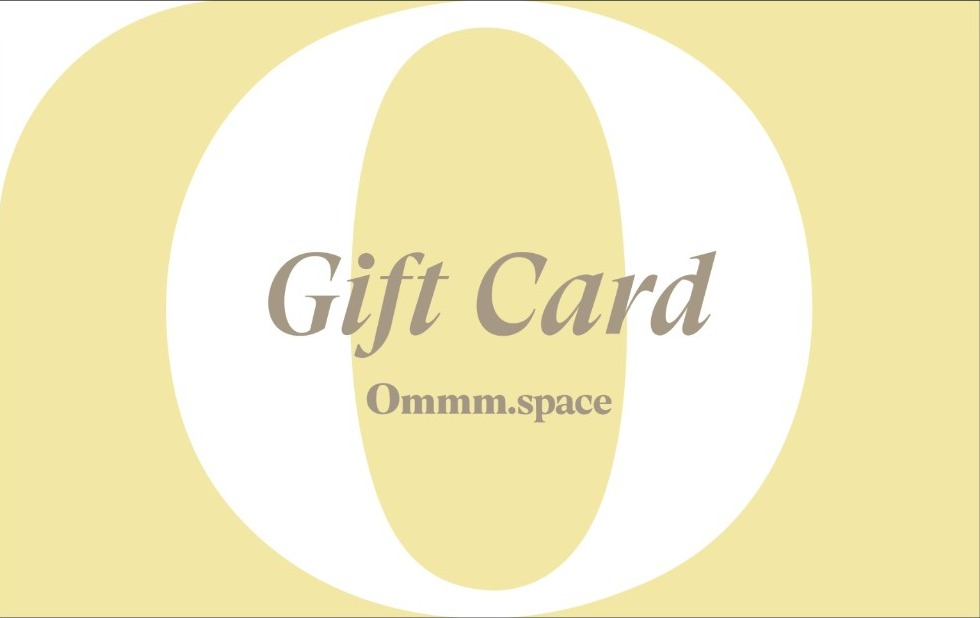
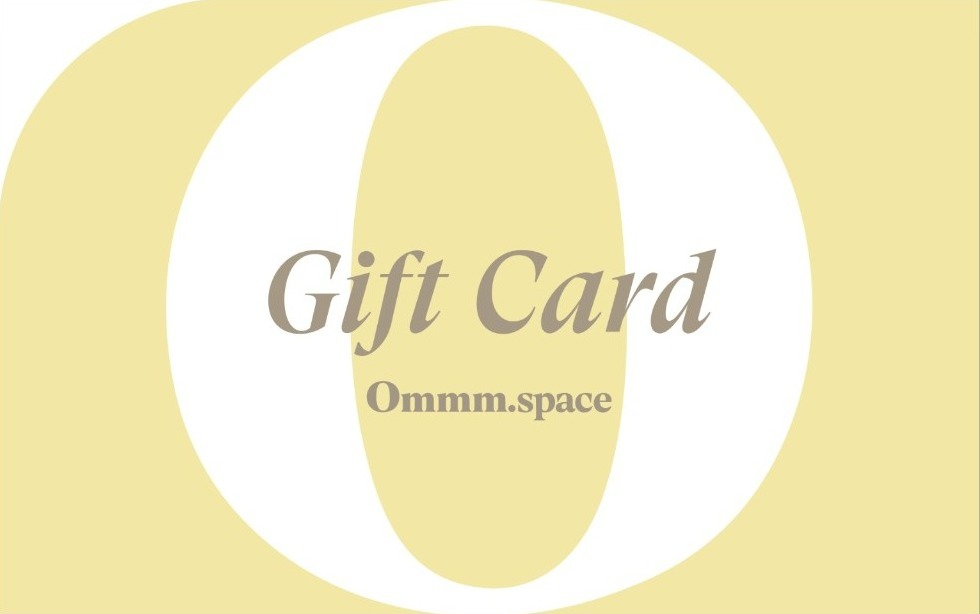
Update gift card issuance logic and UI components
- Changed the gift card code generation to use 4 bytes for improved uniqueness and reduced length.
- Added a validation check in the gift card issuance tests to ensure generated codes are in the correct format.
- Updated the `GiftCardsAdminBatchLifecycleService` to utilize the new code generation method.
- Adjusted the gift card face component styles for better readability and updated the default image source to include a version query for cache management.

diff --git a/apps/api/src/gift-cards/gift-cards-admin-batch-lifecycle.service.ts b/apps/api/src/gift-cards/gift-cards-admin-batch-lifecycle.service.ts
@@ -4,12 +4,12 @@ import {
   NotFoundException,
 } from '@nestjs/common';
 import { GiftCardStatus } from '@prisma/client';
-import { randomBytes } from 'node:crypto';
 import { AuditService } from '../audit/audit.service';
 import { MailService } from '../mail/mail.service';
 import { buildGiftCardDeliveryEmail } from '../mail/templates/gift-card.template';
 import { PrismaService } from '../prisma/prisma.service';
 import { WhatsappNotifyService } from '../whatsapp/whatsapp-notify.service';
+import { generateGiftCardCode } from './gift-card-issue';
 import { GiftCardsImageService } from './gift-cards-image.service';
 import {
   type GiftCardBatchSnapshot,
@@ -60,7 +60,7 @@ export class GiftCardsAdminBatchLifecycleService {
       const createIssuedCardArgs = {
         data: {
           batchId: batch.id,
-          code: randomBytes(8).toString('hex').toUpperCase(),
+          code: generateGiftCardCode(),
           amountAmd: readBatchAmount(batch),
           balanceAmd: readBatchAmount(batch),
           imageUrl: batch.imageUrl ?? undefined,

diff --git a/apps/web/src/components/gift-cards/gift-card-image.ts b/apps/web/src/components/gift-cards/gift-card-image.ts
@@ -2,7 +2,7 @@ import { resolveApiAssetUrl } from "@/lib/resolve-api-asset-url";
 import { sanitizeImageSrcUrl } from "@/lib/sanitize-image-src-url";
 
 /** Studio gift-card face served from the web app, not an uploaded API file. */
-export const DEFAULT_GIFT_CARD_IMAGE_SRC = "/gift-cards/ommm-gift-card-face.jpg";
+export const DEFAULT_GIFT_CARD_IMAGE_SRC = "/gift-cards/ommm-gift-card-face.jpg?v=2";
 
 /**
  * Custom upload when present, otherwise the shared gift-card artwork.

diff --git a/apps/api/src/gift-cards/gift-card-issue.spec.ts b/apps/api/src/gift-cards/gift-card-issue.spec.ts
@@ -25,6 +25,7 @@ describe('gift-card-issue', () => {
     const codes = new Set(rows.map((row) => row.code));
     expect(rows).toHaveLength(3);
     expect(codes.size).toBe(3);
+    expect(rows.every((row) => /^[0-9A-F]{8}$/.test(String(row.code)))).toBe(true);
     expect(rows.every((row) => row.recipientId === undefined)).toBe(true);
     expect(rows.every((row) => row.status === GiftCardStatus.ACTIVE)).toBe(true);
   });

diff --git a/apps/web/src/components/gift-cards/gift-card-face.tsx b/apps/web/src/components/gift-cards/gift-card-face.tsx
@@ -3,7 +3,7 @@ import { DEFAULT_GIFT_CARD_IMAGE_SRC } from "@/components/gift-cards/gift-card-i
 const GIFT_CARD_CODE_CLASS = [
   "pointer-events-none absolute bottom-[8%] right-[5%] max-w-[55%] truncate text-right",
   "font-serif leading-none tracking-[0.08em] text-[#8f8478]",
-  "text-[clamp(0.55rem,2.4cqi,1.15rem)]",
+  "text-[clamp(0.75rem,3.4cqi,1.35rem)]",
 ].join(" ");
 
 type GiftCardFaceProps = {

diff --git a/apps/api/src/gift-cards/gift-card-issue.ts b/apps/api/src/gift-cards/gift-card-issue.ts
@@ -4,7 +4,8 @@ import { randomBytes } from 'node:crypto';
 import type { Prisma } from '@prisma/client';
 import { defaultGiftCardExpiresAt } from './gift-card-policy';
 
-const GIFT_CODE_BYTES = 8;
+/** 4 bytes → 8 hex characters. Short enough for the card corner, still unique. */
+const GIFT_CODE_BYTES = 4;
 const CLAIM_ATTEMPTS = 3;
 
 export type MintGiftCardInput = {
